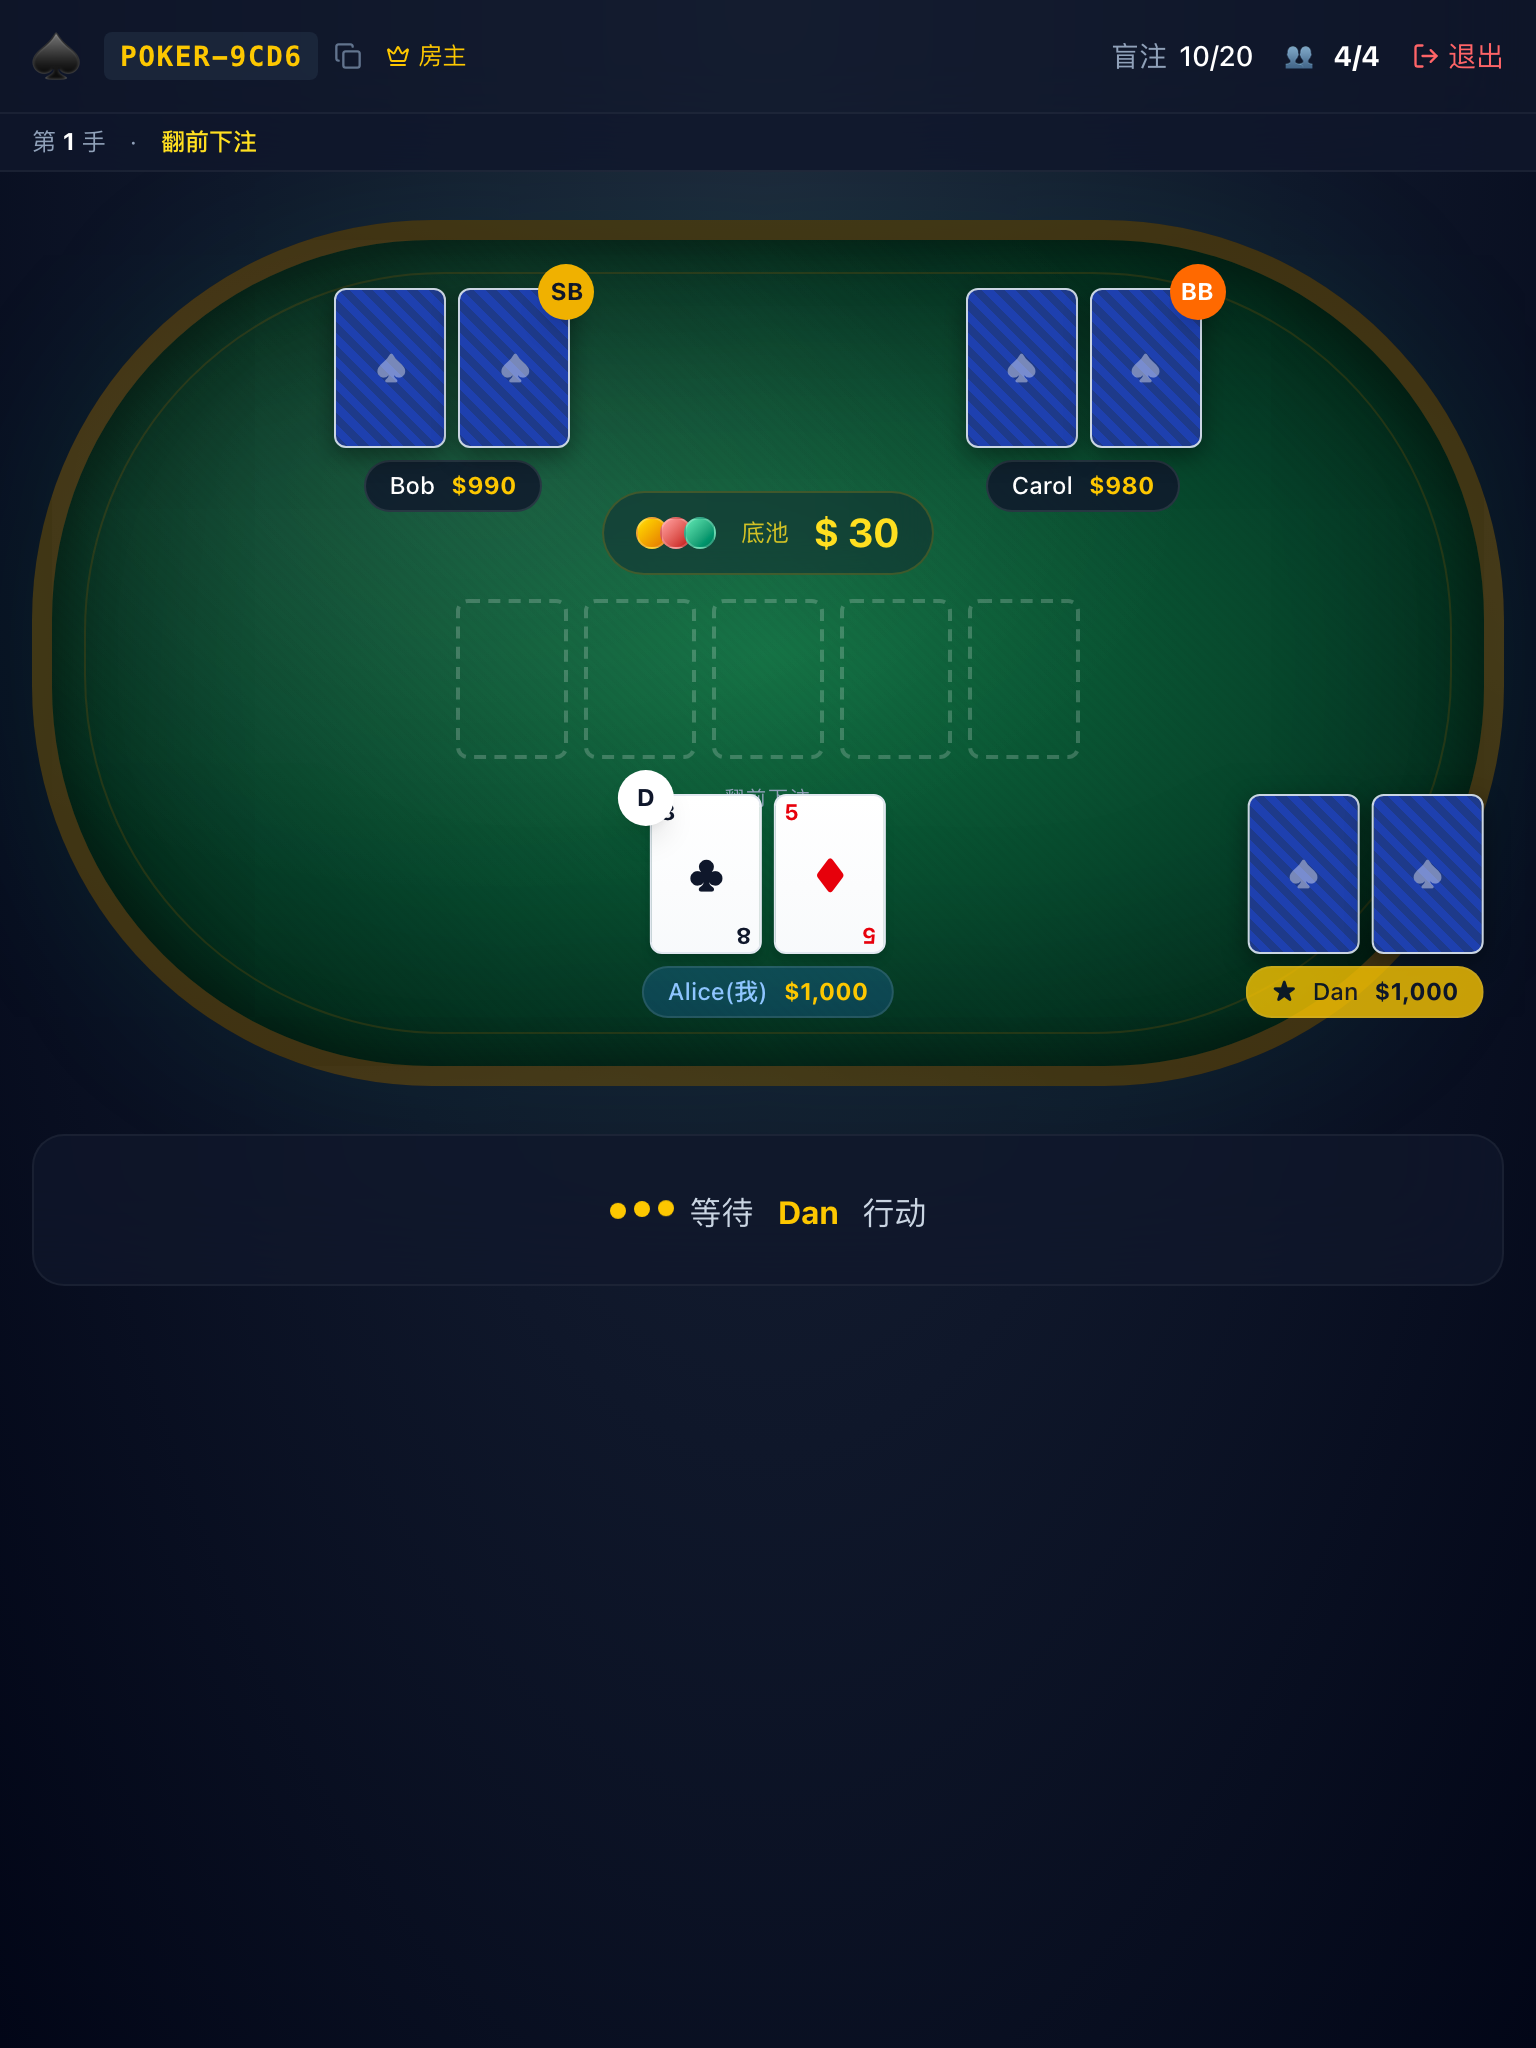
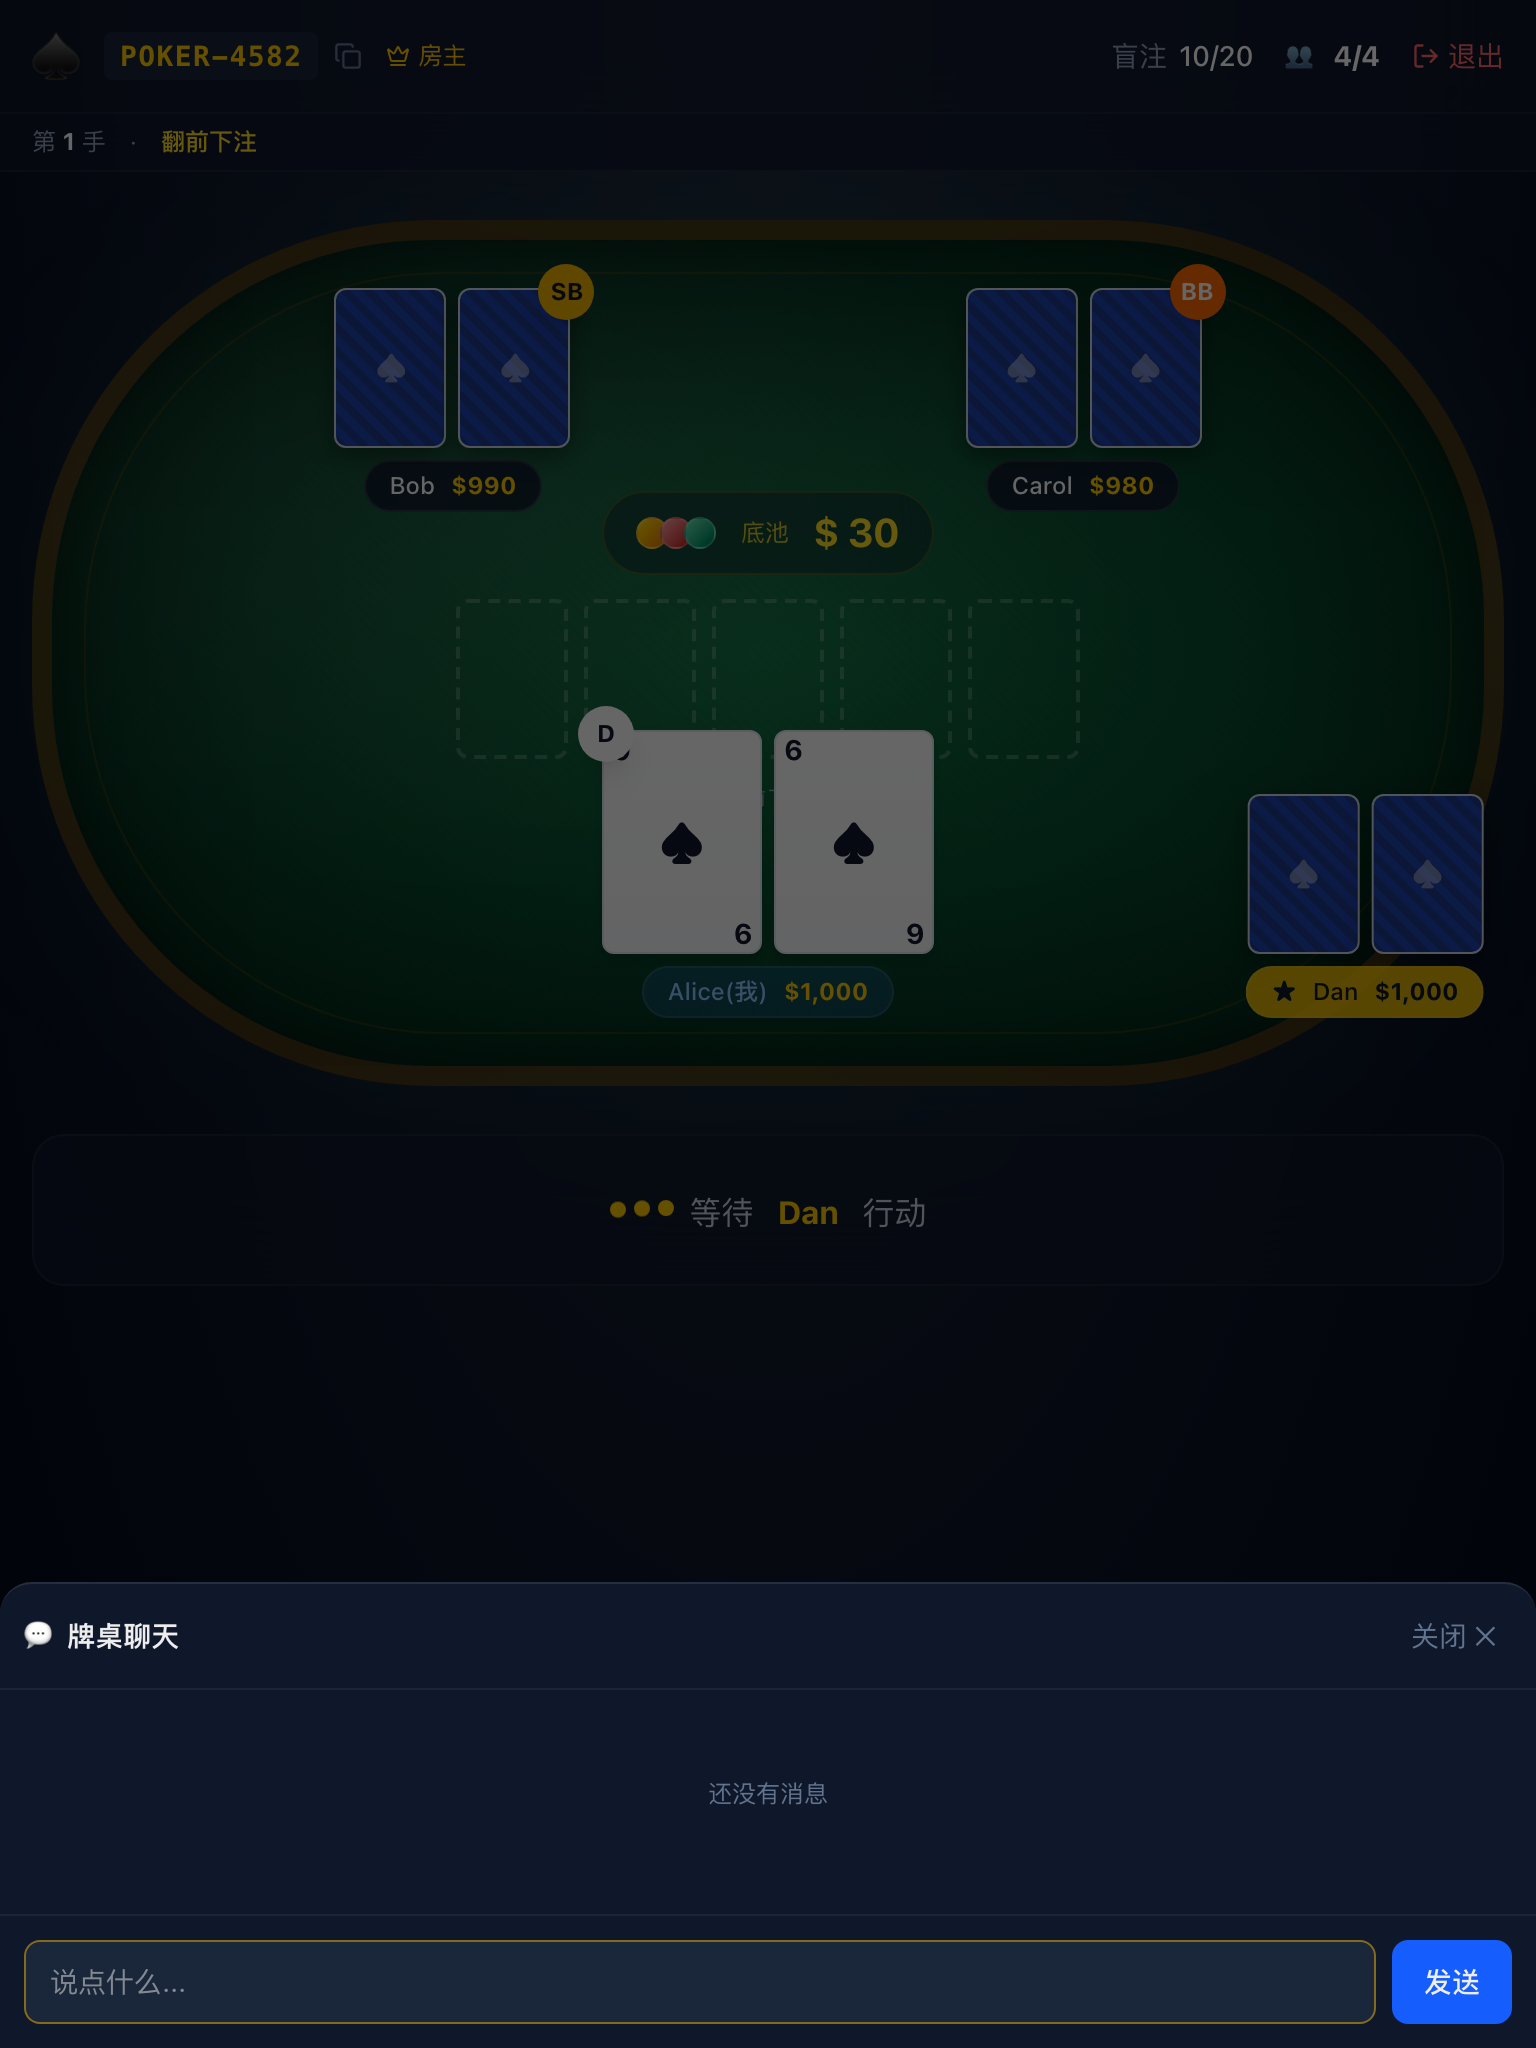
fix: 移动端 chat 默认关闭 (避免遮挡手牌)

diff --git a/app/room/[id]/page.tsx b/app/room/[id]/page.tsx
@@ -19,7 +19,7 @@ export default function RoomPage() {
   const [playerId, setPlayerId] = useState<string | null>(null);
   const [error, setError] = useState('');
   const [copied, setCopied] = useState(false);
-  const [chatOpen, setChatOpen] = useState(true);
+  const [chatOpen, setChatOpen] = useState(false);
   const [chatMessages, setChatMessages] = useState<{ playerId: string; nickname: string; text: string; time: number }[]>([]);
   const [chatInput, setChatInput] = useState('');
   const channelRef = useRef<ReturnType<typeof getRoomChannel>>(null);